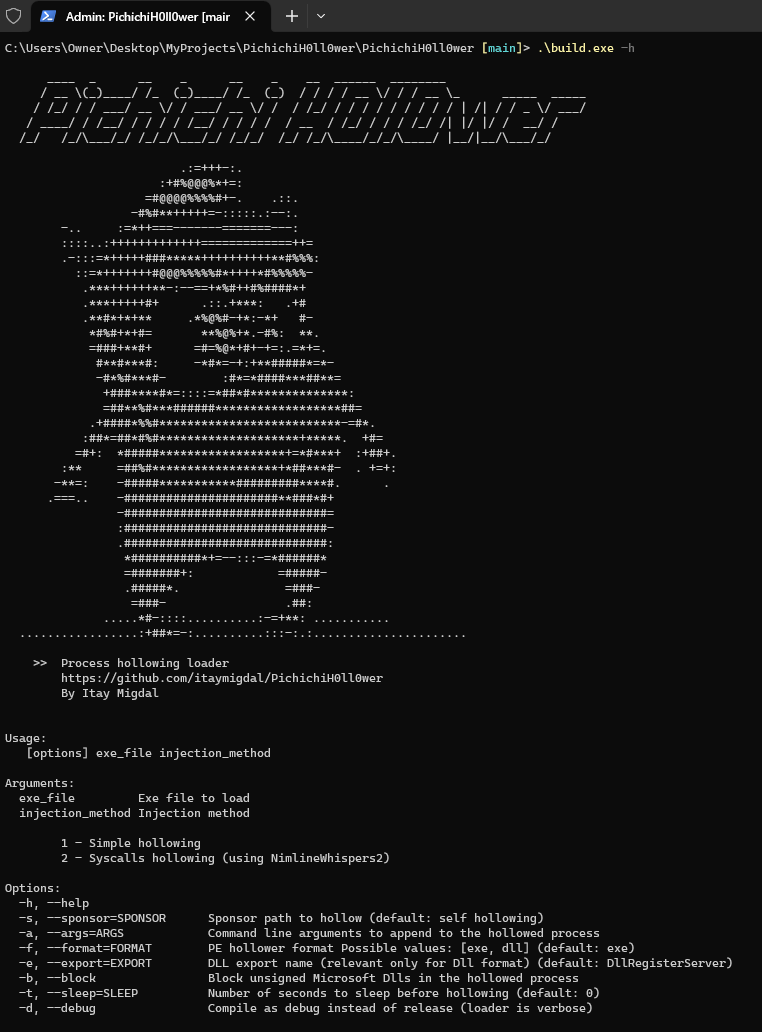
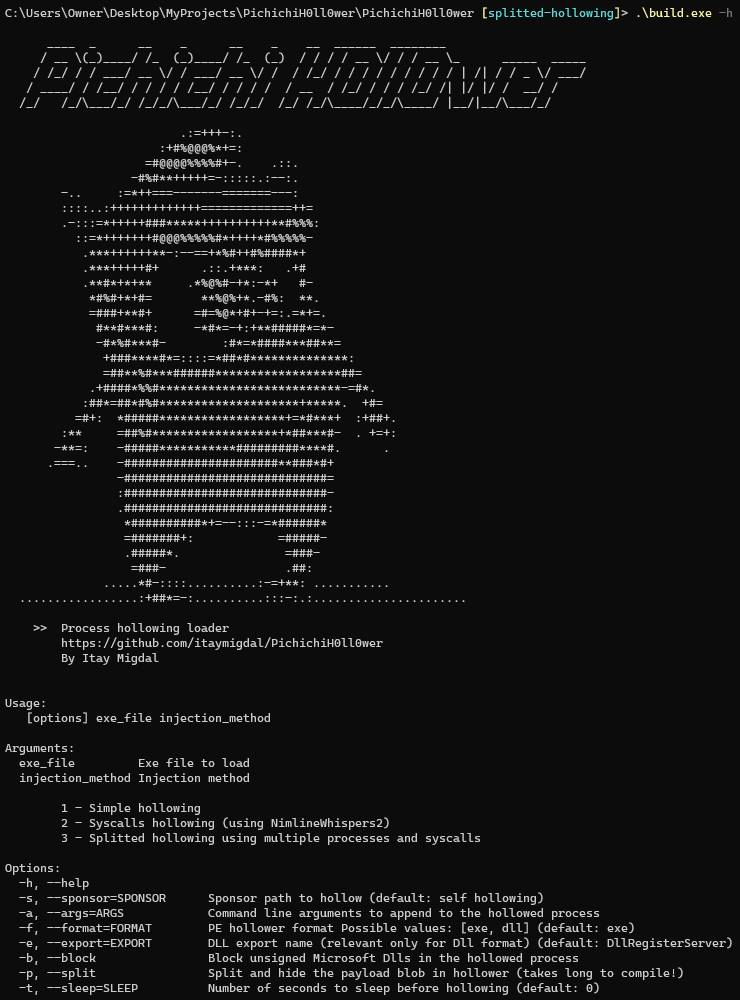
final

Changed region(s): [[0.0, 0.0, 1.0, 0.682], [0.0, 0.682, 0.5284, 0.992], [0.2797, 0.868, 0.9946, 0.992]]

diff --git a/README.md b/README.md
@@ -51,6 +51,7 @@ Arguments:
 
         1 - Simple hollowing
         2 - Syscalls hollowing (using NimlineWhispers2)
+        3 - Splitted hollowing using multiple processes and syscalls
 
 Options:
   -h, --help
